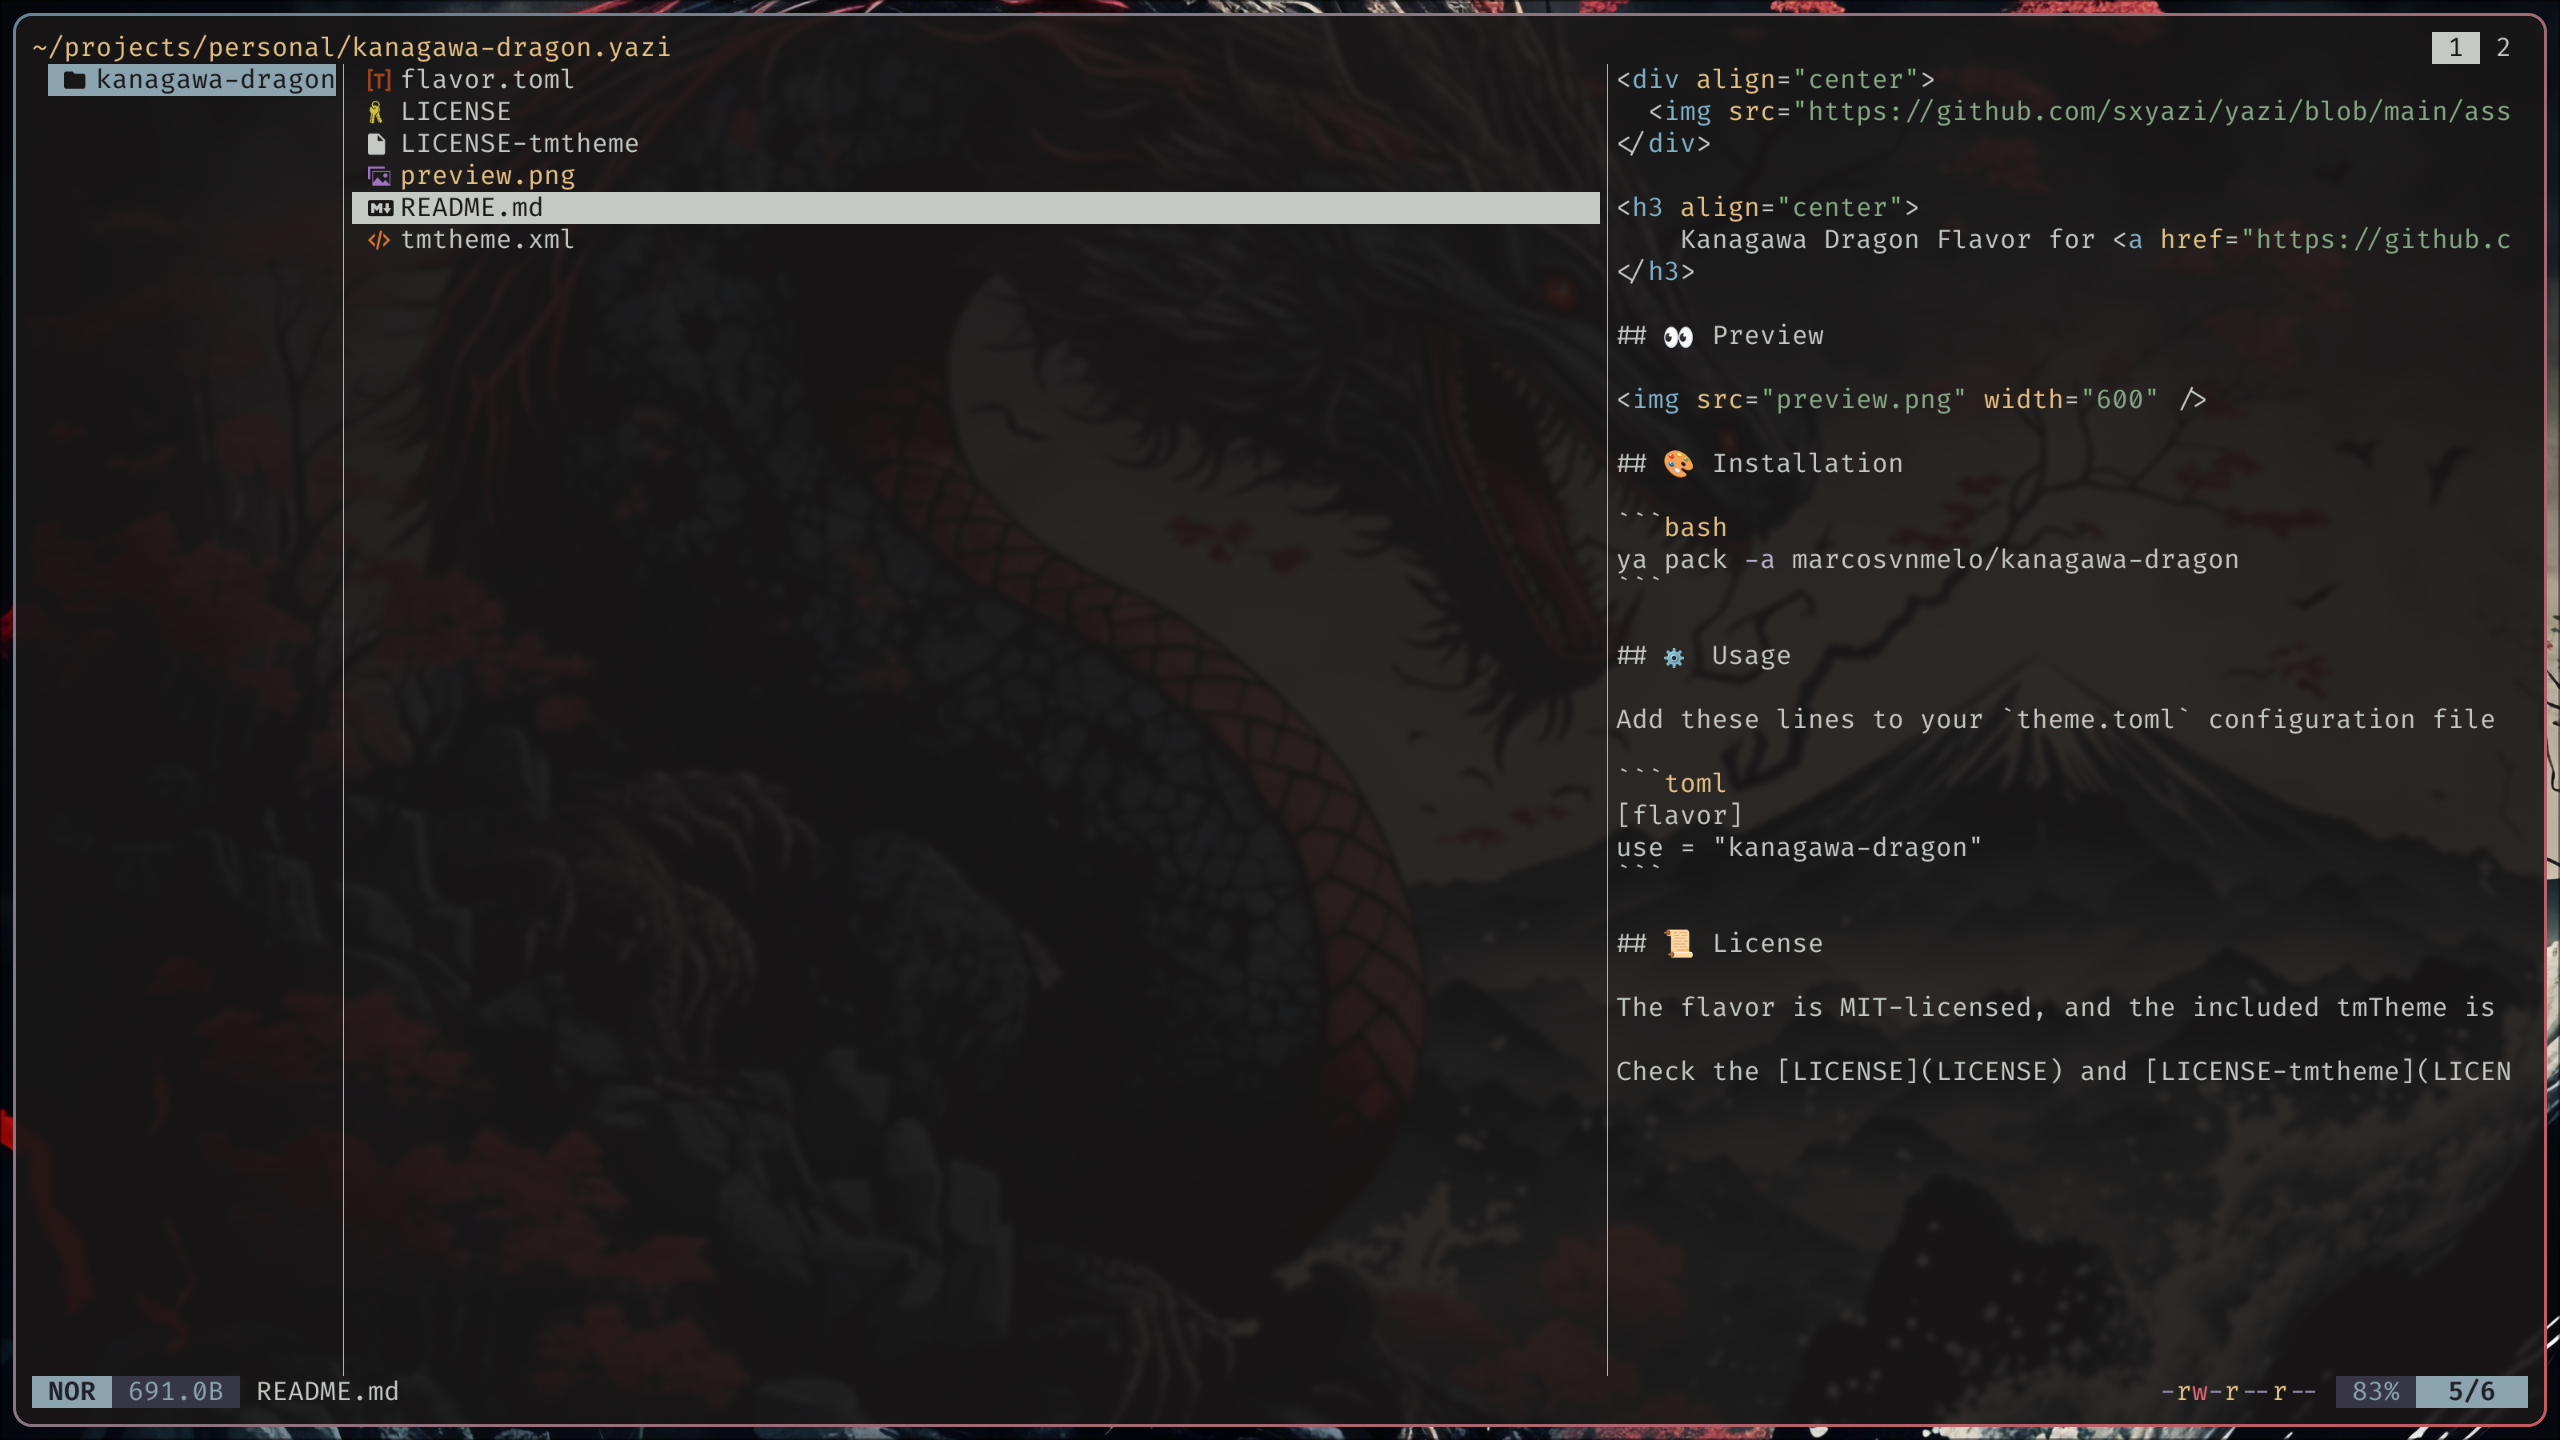
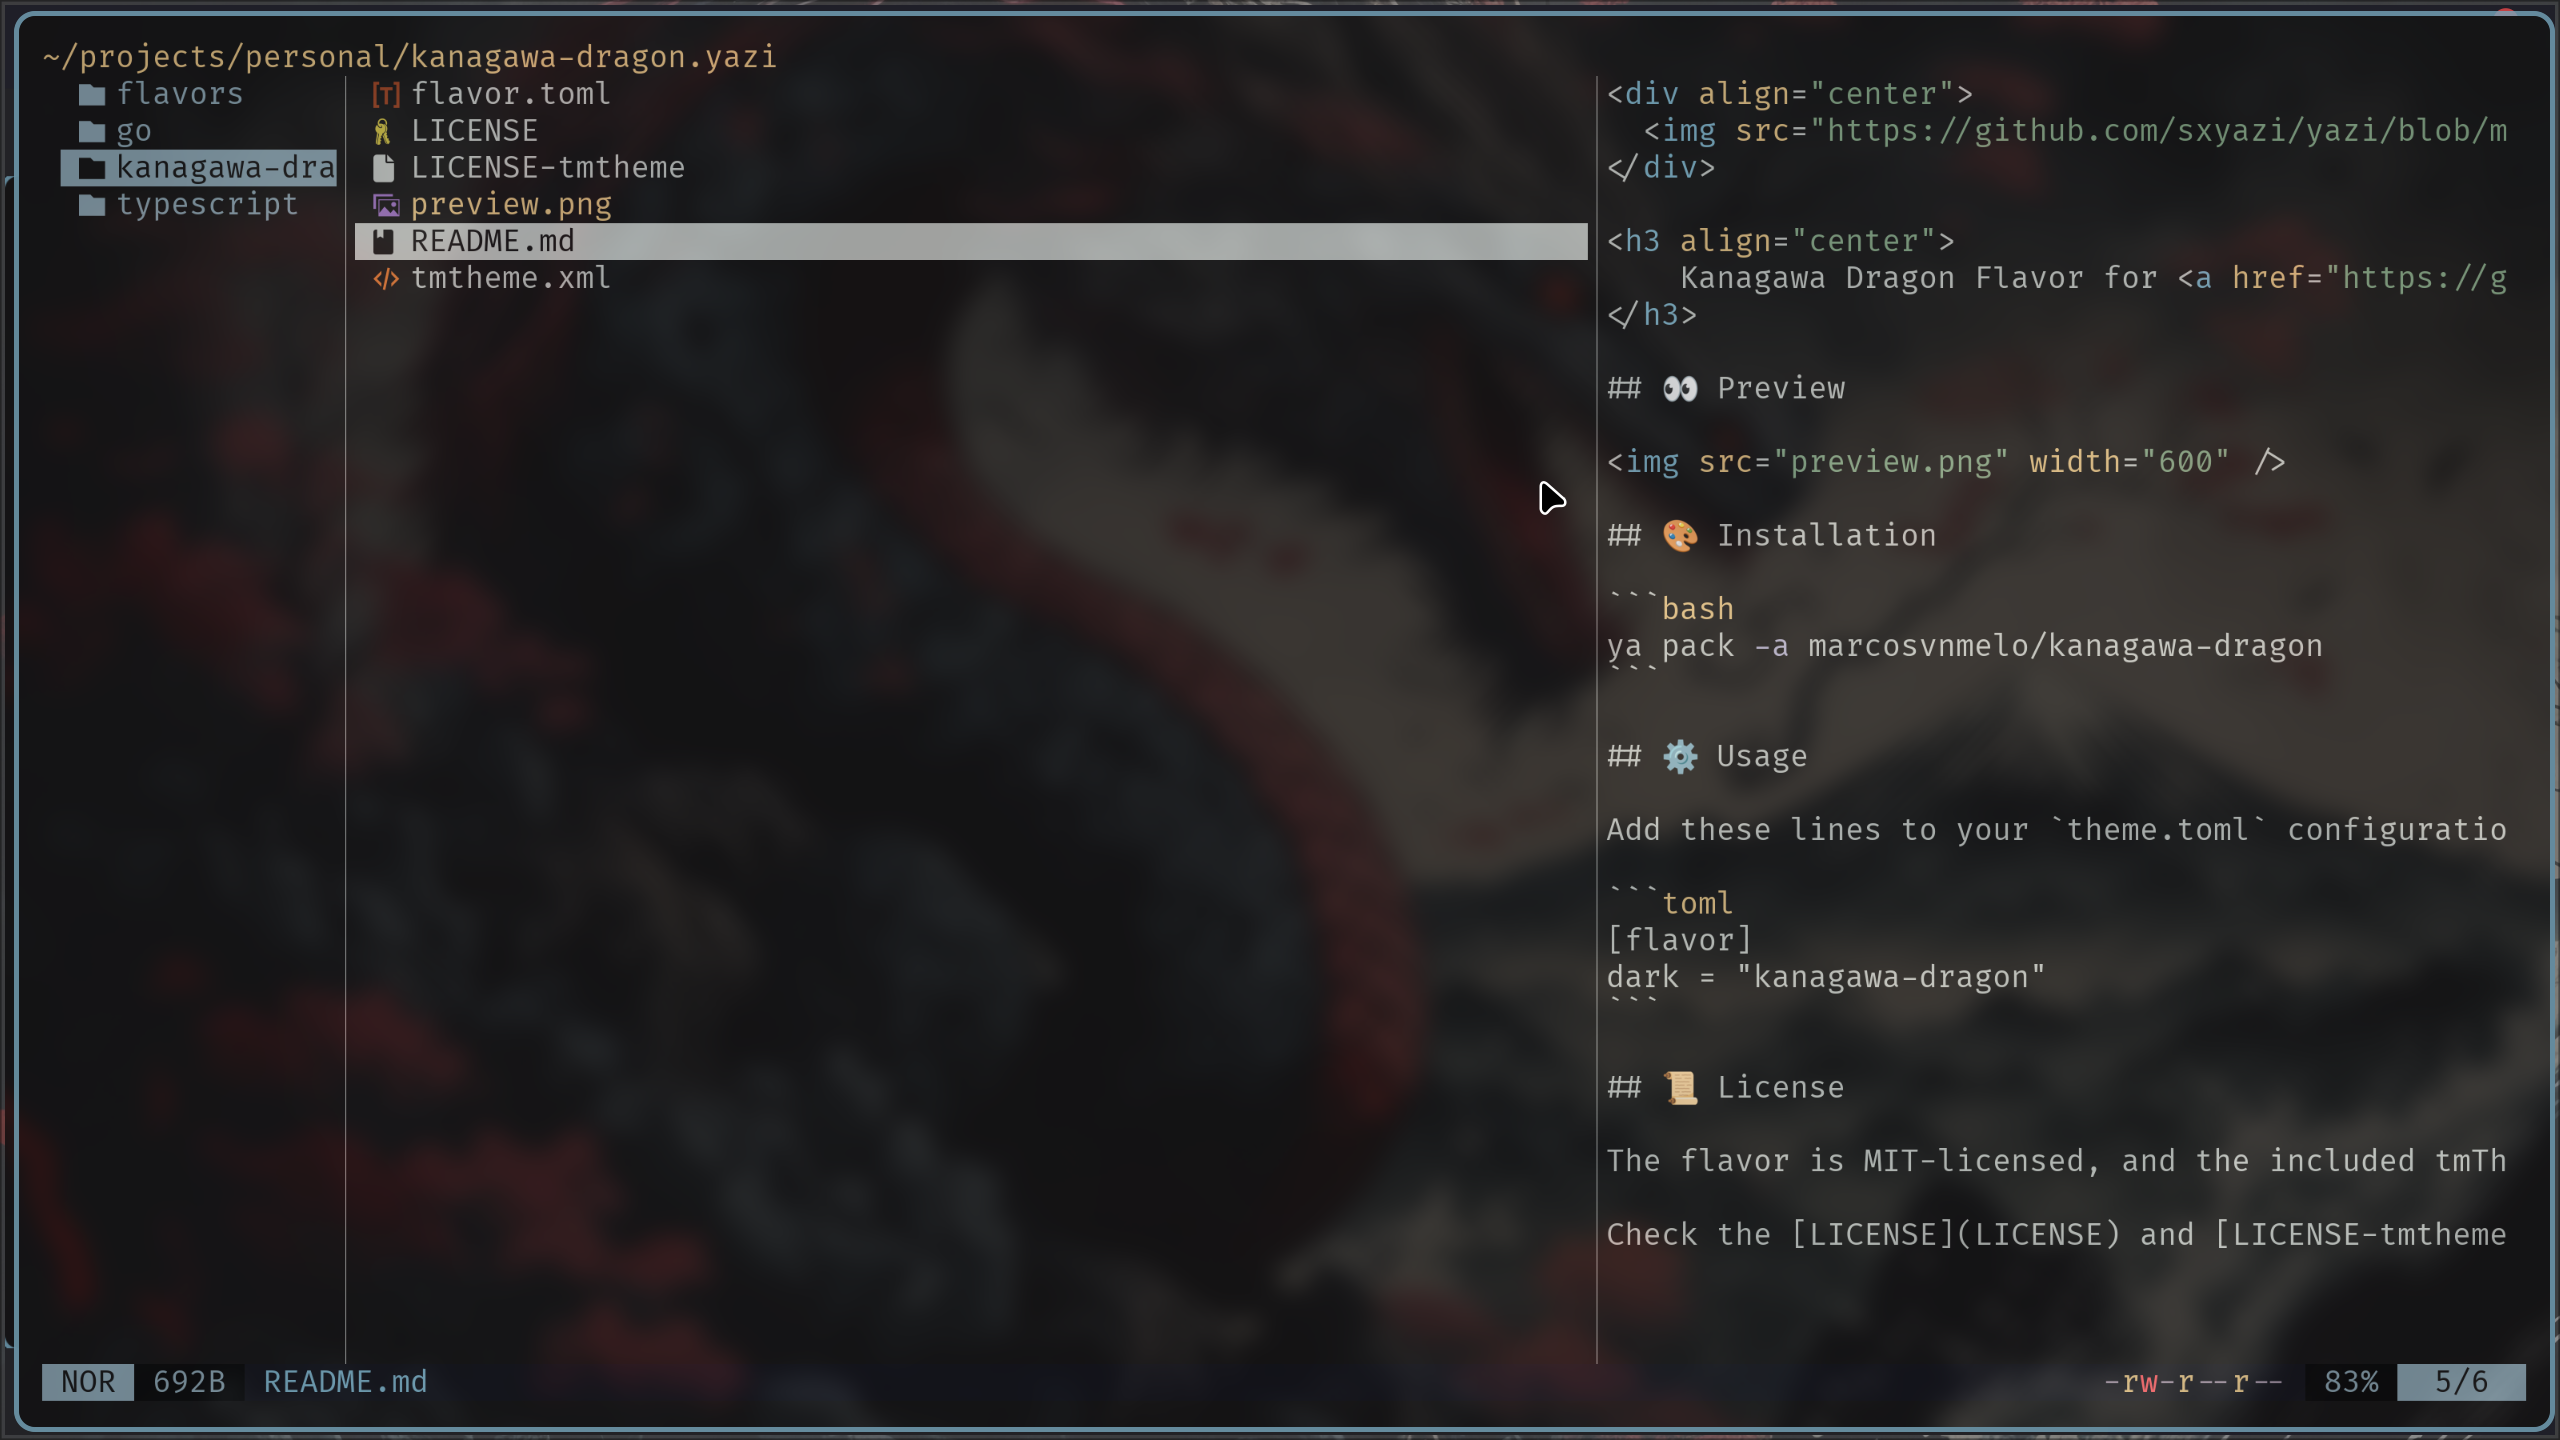
zed binds geaendert, damit macos window management richtig funktioniert

diff --git a/.config/yazi/flavors/kanagawa-dragon.yazi/README.md b/.config/yazi/flavors/kanagawa-dragon.yazi/README.md
@@ -22,7 +22,7 @@ Add these lines to your `theme.toml` configuration file to use it:
 
 ```toml
 [flavor]
-use = "kanagawa-dragon"
+dark = "kanagawa-dragon"
 ```
 
 ## 📜 License

diff --git a/.config/yazi/flavors/sunset.yazi/README.md b/.config/yazi/flavors/sunset.yazi/README.md
@@ -24,7 +24,7 @@ Add the these lines to your `theme.toml` configuration file to use it:
 
 ```toml
 [flavor]
-use = "sunset"
+dark = "sunset"
 ```
 
 ## 📜 License
